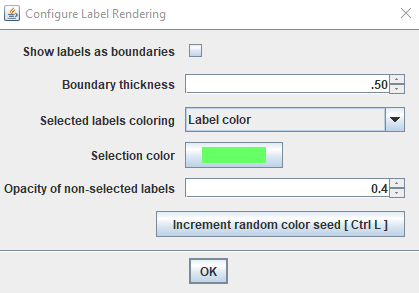
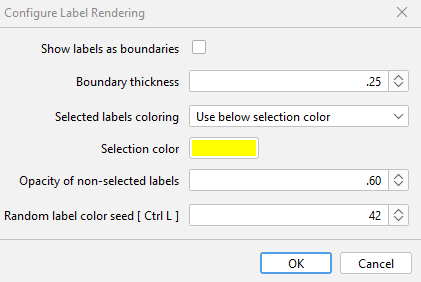
update tutorials

diff --git a/tutorials/exploring_segmentations.md b/tutorials/exploring_segmentations.md
@@ -18,23 +18,26 @@ table to highlight. If you have **V** ticked in the sources panel, it will also 
 - **[Ctrl + L]** Randomly shuffle the colours of the segmented objects.
 - **[Ctrl + shift + N]** Undo any segment selections.
 
+More options are available if you click the '**S**' button in the sources panel:
+
+<img width="500" alt="image" src="./tutorial_images/segmentation_source_panel.png">
+
+This opens the **Configure Label Rendering** menu which allows you to change
+how labels are displayed in the viewer (see image below):
+- **Show labels as boundaries** - display only the boundaries of segmented objects (see example image below)
+- **Boundary thickness** - the thickness of the displayed boundary (if 'show labels as boundaries' is enabled)
+- **Selected labels coloring** - Can change between 'Keep current color', or 'Use below selection color' allowing you to specify a specific colour to use.
+- **Selection color** - the colour of selected labels if 'Selected labels coloring' is set to 'Use below selection color'
+- **Opacity of non-selected labels** - Changes opacity of non-selected labels
+- **Random label color seed [ Ctrl L ]** - Changes the seed used for random colouring of labels.
+
+Configure Label Rendering dialog | Example of boundary rendering
+---|---
+<img width="350" alt="image" src="./tutorial_images/configureLabelRendering.png">  |  <img width="300" alt="image" src="./tutorial_images/boundaryRendering.png">
+
 More options are available if you right click in the viewer:
 
 <img width="600" alt="image" src="./tutorial_images/contextMenu.png">
-
-- **Configure Label Rendering** - this will open a menu allowing you to change
-how labels are displayed in the viewer (see image below).
-  - **Show labels as boundaries** - display only the boundaries of segmented objects (see example image below)
-  - **Boundary thickness** - the thickness of the displayed boundary (if 'show labels as boundaries' is enabled)
-  - **Selected labels coloring** - Can change between showing labels
-  in the 'Label color' (i.e. whatever their current colour is), or a specified 'Selection color'.
-  - **Selection color** - the colour of selected labels if 'Selected labels coloring' is set to 'Selection color'
-  - **Opacity of non-selected labels** - Changes opacity of non-selected labels
-  - **Increment random color seed [ Ctrl L ]** - Same as Ctrl + L above.
-
-  Configure Label Rendering dialog | Example of boundary rendering
-  ---|---
-  <img width="350" alt="image" src="./tutorial_images/configureLabelRendering.png">  |  <img width="300" alt="image" src="./tutorial_images/boundaryRendering.png">
 
 - **Configure Label Volume Rendering** Change resolution with which labels are
 shown in the 3D viewer.

diff --git a/tutorials/creating_your_own_views.md b/tutorials/creating_your_own_views.md
@@ -9,7 +9,7 @@ it later e.g. the location, orientation, open images, colouring schemes etc are
 saved.
 
 To make a view, right click in the MoBIE viewer and select
-**Save Current Settings As View**. Then select a 'Save method' of 'Save as new view', and select save to **File_system**.
+**Save Current View**. Then select a 'Save method' of 'Save as new view', and select save to **FileSystem**.
 
 <img width="300" alt="image" src="./tutorial_images/saveView.png">
 
@@ -31,14 +31,14 @@ If not, simply provide a name for your .json, and a new one will be created. You
 
 The view will be added automatically to the correct dropdown menu in MoBIE (note it may be at the bottom of this dropdown list - so scroll down!). Click the 'view' button to see it.
 
-If you close and re-open MoBIE, you will need to right click in the MoBIE viewer and select **Load Additional Views**, then Load from **File_system**. You can then select your
+If you close and re-open MoBIE, you will need to right click in the MoBIE viewer and select **Load Additional Views**, then Load from **FileSystem**. You can then select your
 .json file. Your new views will appear again in the relevant MoBIE dropdown menus.
 
 ### Modifying a view
 
 If you wish to modify a view you have already saved, you can do this in a similar
-way. Right click in the MoBIE viewer and select **Save Current Settings As View**.
-Now select a 'Save method' of 'Overwrite existing view', and select save to **File_system**.
+way. Right click in the MoBIE viewer and select **Save Current View**.
+Now select a 'Save method' of 'Overwrite existing view', and select save to **FileSystem**.
 
 <img width="300" alt="image" src="./tutorial_images/overwriteViewSettings.png">
 

diff --git a/tutorials/explore_a_project.md b/tutorials/explore_a_project.md
@@ -53,6 +53,8 @@ after rounds of segmentation proofreading.
 - **[ view ] on any other row - display a view** Select a view from the drop-down menus and click the button. Views can contain a number of images and segmentations, as well as tables, plots and 3D views.
 **Note:** the drop-down groups available here are specific to the project! e.g. in this example project, groups like 'propsr' (gene expression data) and 'sbem' (electron microscopy data) are available.
 - **[ move ] Move to a particular position or view.** See [here](./views_and_locations.md) for more information.
+- **[clear] Remove all sources.** This button removes all displayed sources.
+- **overlay names checkbox** When enabled, shows names of images in the image viewer.
 
 ### Sources Panel
 As you add more images to the viewer, they will appear in the **sources panel**, like below:
@@ -64,6 +66,8 @@ To control the image sources appearance, there are several buttons...
 - **[ O ]**  Change the opacity
 - **[ C ]**  Change the color
 - **[ B ]**  Change the brightness settings
+- **[ S ]**  Open the display settings (the options available here will depend on the
+corresponding display e.g. different options for images vs segmentations).
 - **[ X ]**  Remove from viewer and sources panel
 
 ...and checkboxes:
